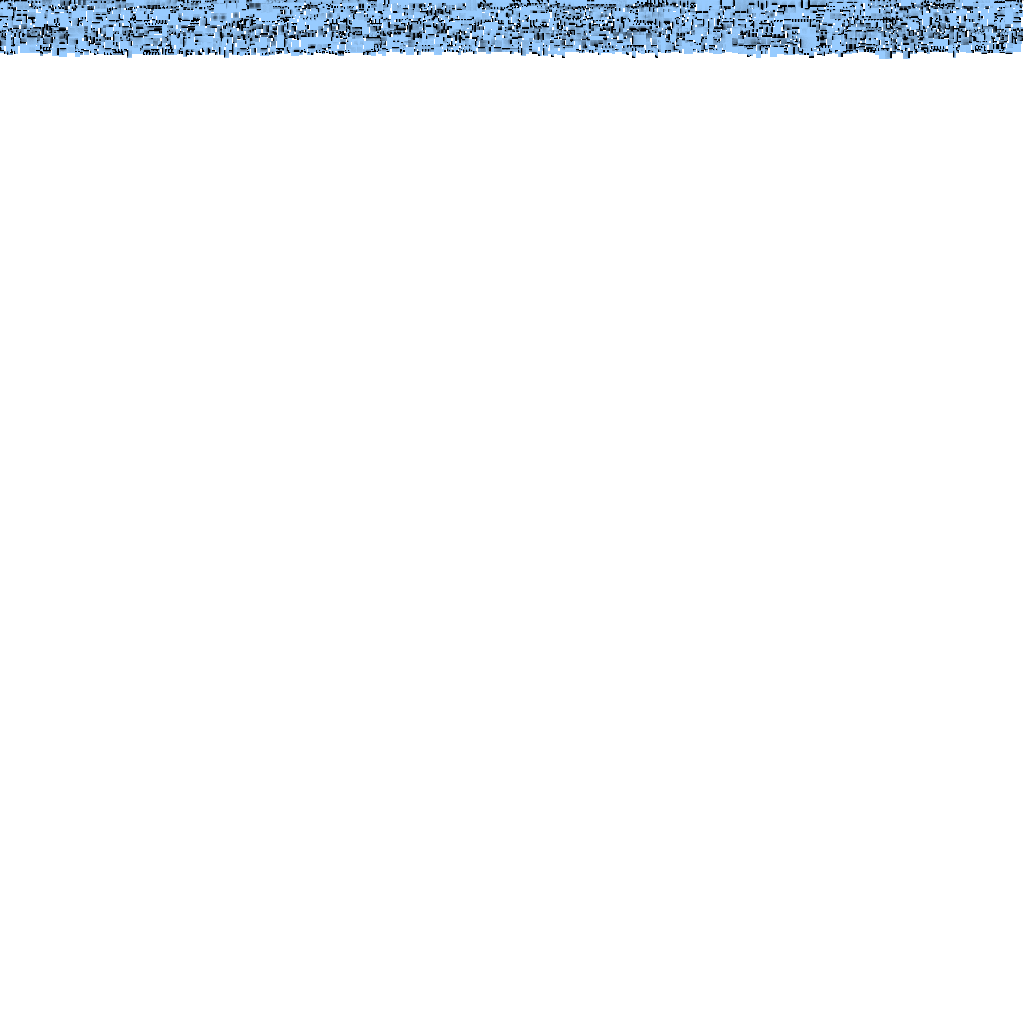
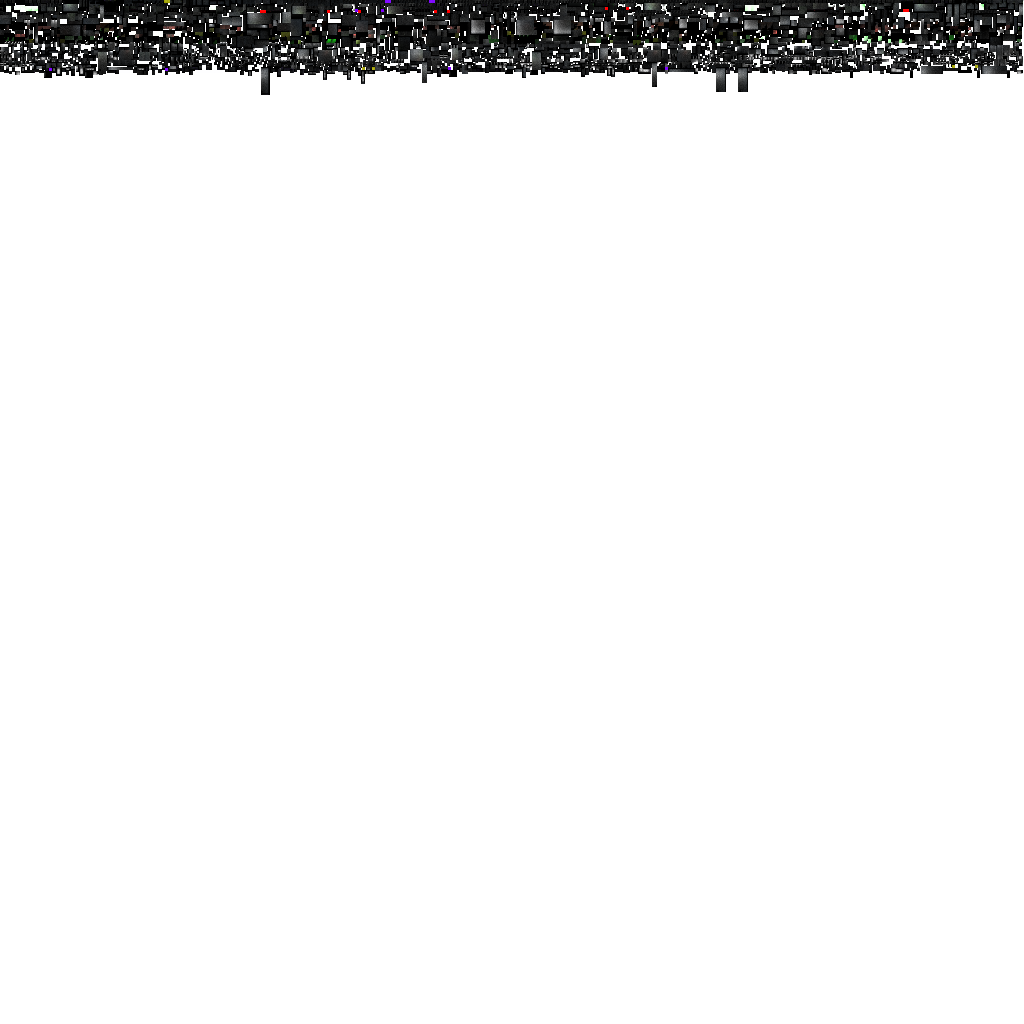
Window resizing

Changed region(s): [[0.0, 0.0, 1.0, 0.0938]]

diff --git a/src/gamma/renderer/Renderer.cpp b/src/gamma/renderer/Renderer.cpp
@@ -11,24 +11,38 @@
 namespace GammaEngine {
 	void Renderer::Initialize(unsigned int width, unsigned int height) {
 		glEnable(GL_DEPTH_TEST);
+		glDepthFunc(GL_LEQUAL);
+        glDepthMask(GL_TRUE);
+        glClearDepth(1.f);
 
-		ResizeViewport(width, height);
+        glDisable(GL_LIGHTING);
+        glDisable(GL_CULL_FACE);
 	}
 
-	void Renderer::ResizeViewport(unsigned int width, unsigned int height) {
-		glViewport(0, 0, static_cast<GLsizei>(width), static_cast<GLsizei>(height));
-		glMatrixMode(GL_PROJECTION);
-		glLoadIdentity();
-		const GLfloat new_ratio =  static_cast<float>(width) / static_cast<float>(height);
-		glFrustum(-new_ratio, new_ratio, -1.f, 1.f, 1.f, 500.f);
-
-		width_ = width;
-		height_ = height;
+	void Renderer::ResizeViewport(unsigned int width, unsigned int height, float aspectRatio) {
+		// TODO: More resize modes
+		GLfloat newRatio;
+		newRatio =  static_cast<float>(width) / static_cast<float>(height);
+		
+		if(newRatio > aspectRatio) {
+			int viewportWidth = static_cast<float>(height) * aspectRatio;
+			glViewport(		(static_cast<int>(width) - viewportWidth) / 2,
+							0,
+							viewportWidth,
+							height	);
+		}
+		else {
+			int viewportHeight = static_cast<float>(width) / aspectRatio;
+			glViewport(		0,
+							(static_cast<int>(height) - viewportHeight) / 2,
+							width,
+							viewportHeight	);
+		}
 	}
 
 	void Renderer::Draw(Scene &scene) {
 		glClear(GL_COLOR_BUFFER_BIT | GL_DEPTH_BUFFER_BIT);
 
-		scene.Draw();
+		//scene.Draw();
 	}
 }

diff --git a/src/gamma/core/MainLoop.cpp b/src/gamma/core/MainLoop.cpp
@@ -1,6 +1,7 @@
 #include "MainLoop.hpp"
 
 #include <iostream>
+#include <memory>
 
 namespace GammaEngine {
 	MainLoop::MainLoop() {
@@ -59,6 +60,8 @@ namespace GammaEngine {
 			std::shared_ptr<Camera> camera = scene_->GetCamera();
 			camera->Update(deltaTime);
 
+			HandleResize();
+
 			renderer_.Draw(*scene_);
 			window_.Display();
 
@@ -70,5 +73,31 @@ namespace GammaEngine {
 		}
 		
 		return EXIT_SUCCESS;
+	}
+
+	void MainLoop::HandleResize() {
+		std::shared_ptr<Camera> camera = scene_->GetCamera();
+
+		if(camera) {
+			if(window_.GetDirty() || camera->GetProjectionMatrixDirty()) {
+				renderer_.ResizeViewport(	
+											window_.GetWidth(),
+											window_.GetHeight(),
+											camera->GetAspectRatio()	);
+
+				window_.SetDirty(false);
+				camera->SetProjectionMatrixDirty(false);
+			}
+		}
+		else {
+			if(window_.GetDirty()) {
+				renderer_.ResizeViewport(	
+											window_.GetWidth(),
+											window_.GetHeight(),
+											camera->GetAspectRatio()	);
+			}
+
+			window_.SetDirty(false);
+		}
 	}
 }

diff --git a/src/gamma/main.cpp b/src/gamma/main.cpp
@@ -35,10 +35,10 @@ void Application::Update(float deltaTime) {
 				camera->SetPosition(camera->GetPosition() + (camera->GetRotation()).RotateVector(Vec3f(0, 0, -moveSpeed * deltaTime)));
 				break;
 			case GAMMA_ENGINE_KEY_A_PRESSED:
-				camera->SetPosition(camera->GetPosition() + (camera->GetRotation()).RotateVector(Vec3f(0, 0, moveSpeed * deltaTime)));
+				camera->SetPosition(camera->GetPosition() + (camera->GetRotation()).RotateVector(Vec3f(-moveSpeed * deltaTime, 0, 0)));
 				break;
 			case GAMMA_ENGINE_KEY_S_PRESSED:
-				camera->SetPosition(camera->GetPosition() + (camera->GetRotation()).RotateVector(Vec3f(-moveSpeed * deltaTime, 0, 0)));
+				camera->SetPosition(camera->GetPosition() + (camera->GetRotation()).RotateVector(Vec3f(0, 0, moveSpeed * deltaTime)));
 				break;
 			case GAMMA_ENGINE_KEY_D_PRESSED:
 				camera->SetPosition(camera->GetPosition() + (camera->GetRotation()).RotateVector(Vec3f(moveSpeed * deltaTime, 0, 0)));

diff --git a/src/gamma/platform/Window.cpp b/src/gamma/platform/Window.cpp
@@ -44,6 +44,14 @@ namespace GammaEngine {
 		title_ = title;
 	}
 
+	bool Window::GetDirty() {
+		return dirty_;
+	}
+
+	void Window::SetDirty(bool dirty) {
+		dirty_ = dirty;
+	}
+
 	bool Window::CreateWindow() {
 		window_ = glfwCreateWindow(width_, height_, title_.c_str(), NULL, NULL);
 		if(window_ == NULL) {
@@ -96,6 +104,14 @@ namespace GammaEngine {
 		}
 		if(glfwGetKey(window_, GLFW_KEY_RIGHT) == GLFW_PRESS) {
 			events_.push_back(GAMMA_ENGINE_KEY_RIGHT_PRESSED);
+		}
+
+		int newWidth, newHeight;
+		glfwGetFramebufferSize(window_, &newWidth, &newHeight);
+		if(newWidth != width_ || newHeight != height_) {
+			width_ = newWidth;
+			height_ = newHeight;
+			dirty_ = true;
 		}
 
 		glfwPollEvents();

diff --git a/src/gamma/core/Scene.cpp b/src/gamma/core/Scene.cpp
@@ -261,7 +261,8 @@ namespace GammaEngine {
 
 	void Scene::CreateDefaltCamera() {
 		camera_ = std::make_shared<Camera>();
-		camera_->SetPerspective(60.f, 4.f/3.f, 1.f, 100000.f);
+		camera_->SetAspectRatio(4.f/3.f);
+		camera_->SetPerspective(60.f, camera_->GetAspectRatio(), 1.f, 100000.f);
 
 		camera_->SetRotation(Quaternion(Vec3f(0.f, 1.f, 0.f), -0.75 * M_PI));
 		camera_->SetPosition(Vec3f(0.f, 100.f, -1000.f));
@@ -350,7 +351,7 @@ namespace GammaEngine {
 
 		UnbindShader(*shaderProgram_);
 
-		//std::cout << currentIndexCount_ << std::endl;
+		// std::cout << currentIndexCount_ / 3 << std::endl;
 		//std::cout << nodesTraversed_ << " number of nodes traversed" << std::endl;
 	}
 }

diff --git a/src/gamma/renderer/Renderer.hpp b/src/gamma/renderer/Renderer.hpp
@@ -8,11 +8,7 @@ namespace GammaEngine {
 			Renderer() {}
 			~Renderer() {}
 			void Initialize(unsigned int width, unsigned int height);
-			void ResizeViewport(unsigned int width, unsigned int height);
+			void ResizeViewport(unsigned int width, unsigned int height, float aspectRatio);
 			void Draw(Scene &scene);
-
-		private:
-			unsigned int	width_;
-			unsigned int	height_;
 	};
 }

diff --git a/src/gamma/core/Camera.cpp b/src/gamma/core/Camera.cpp
@@ -57,6 +57,14 @@ namespace GammaEngine {
         aspectRatio_ = aspectRatio;
     }
 
+	float Camera::GetAspectRatio() {
+		return aspectRatio_;
+	}
+	
+	void Camera::SetAspectRatio(float aspectRatio) {
+		aspectRatio_ = aspectRatio;
+	}
+
 	bool Camera::BoxVisible(Vec3f cornerPoint, Vec3f extent) {
 		return frustum_.ContainsBox(cornerPoint, extent);
 	}

diff --git a/src/gamma/platform/Window.hpp b/src/gamma/platform/Window.hpp
@@ -37,7 +37,10 @@ namespace GammaEngine {
 		void SetTitle(std::string title);
 		void SetWidth(unsigned int width);
 		void SetHeight(unsigned int height);
-		
+
+		bool GetDirty();
+		void SetDirty(bool dirty);
+
 	private:
 		std::vector<int>	events_;
 

diff --git a/src/gamma/core/Camera.hpp b/src/gamma/core/Camera.hpp
@@ -29,6 +29,9 @@ namespace GammaEngine {
 
 			void Update(float deltaTime);
 
+			float GetAspectRatio();
+			void SetAspectRatio(float aspectRatio);
+
 		private:
 			Vec3f position_{0.f, 0.f, 0.f};
 			Quaternion rotation_{1.f, 0.f, 0.f, 0.f};

diff --git a/src/gamma/core/MainLoop.hpp b/src/gamma/core/MainLoop.hpp
@@ -17,6 +17,8 @@ namespace GammaEngine {
 		private:
 			bool GlfwInitialize();
 
+			void HandleResize();
+
 		protected:
 			virtual void Configure() = 0;
 			virtual void Initialize(int argv, char **argc) = 0;
